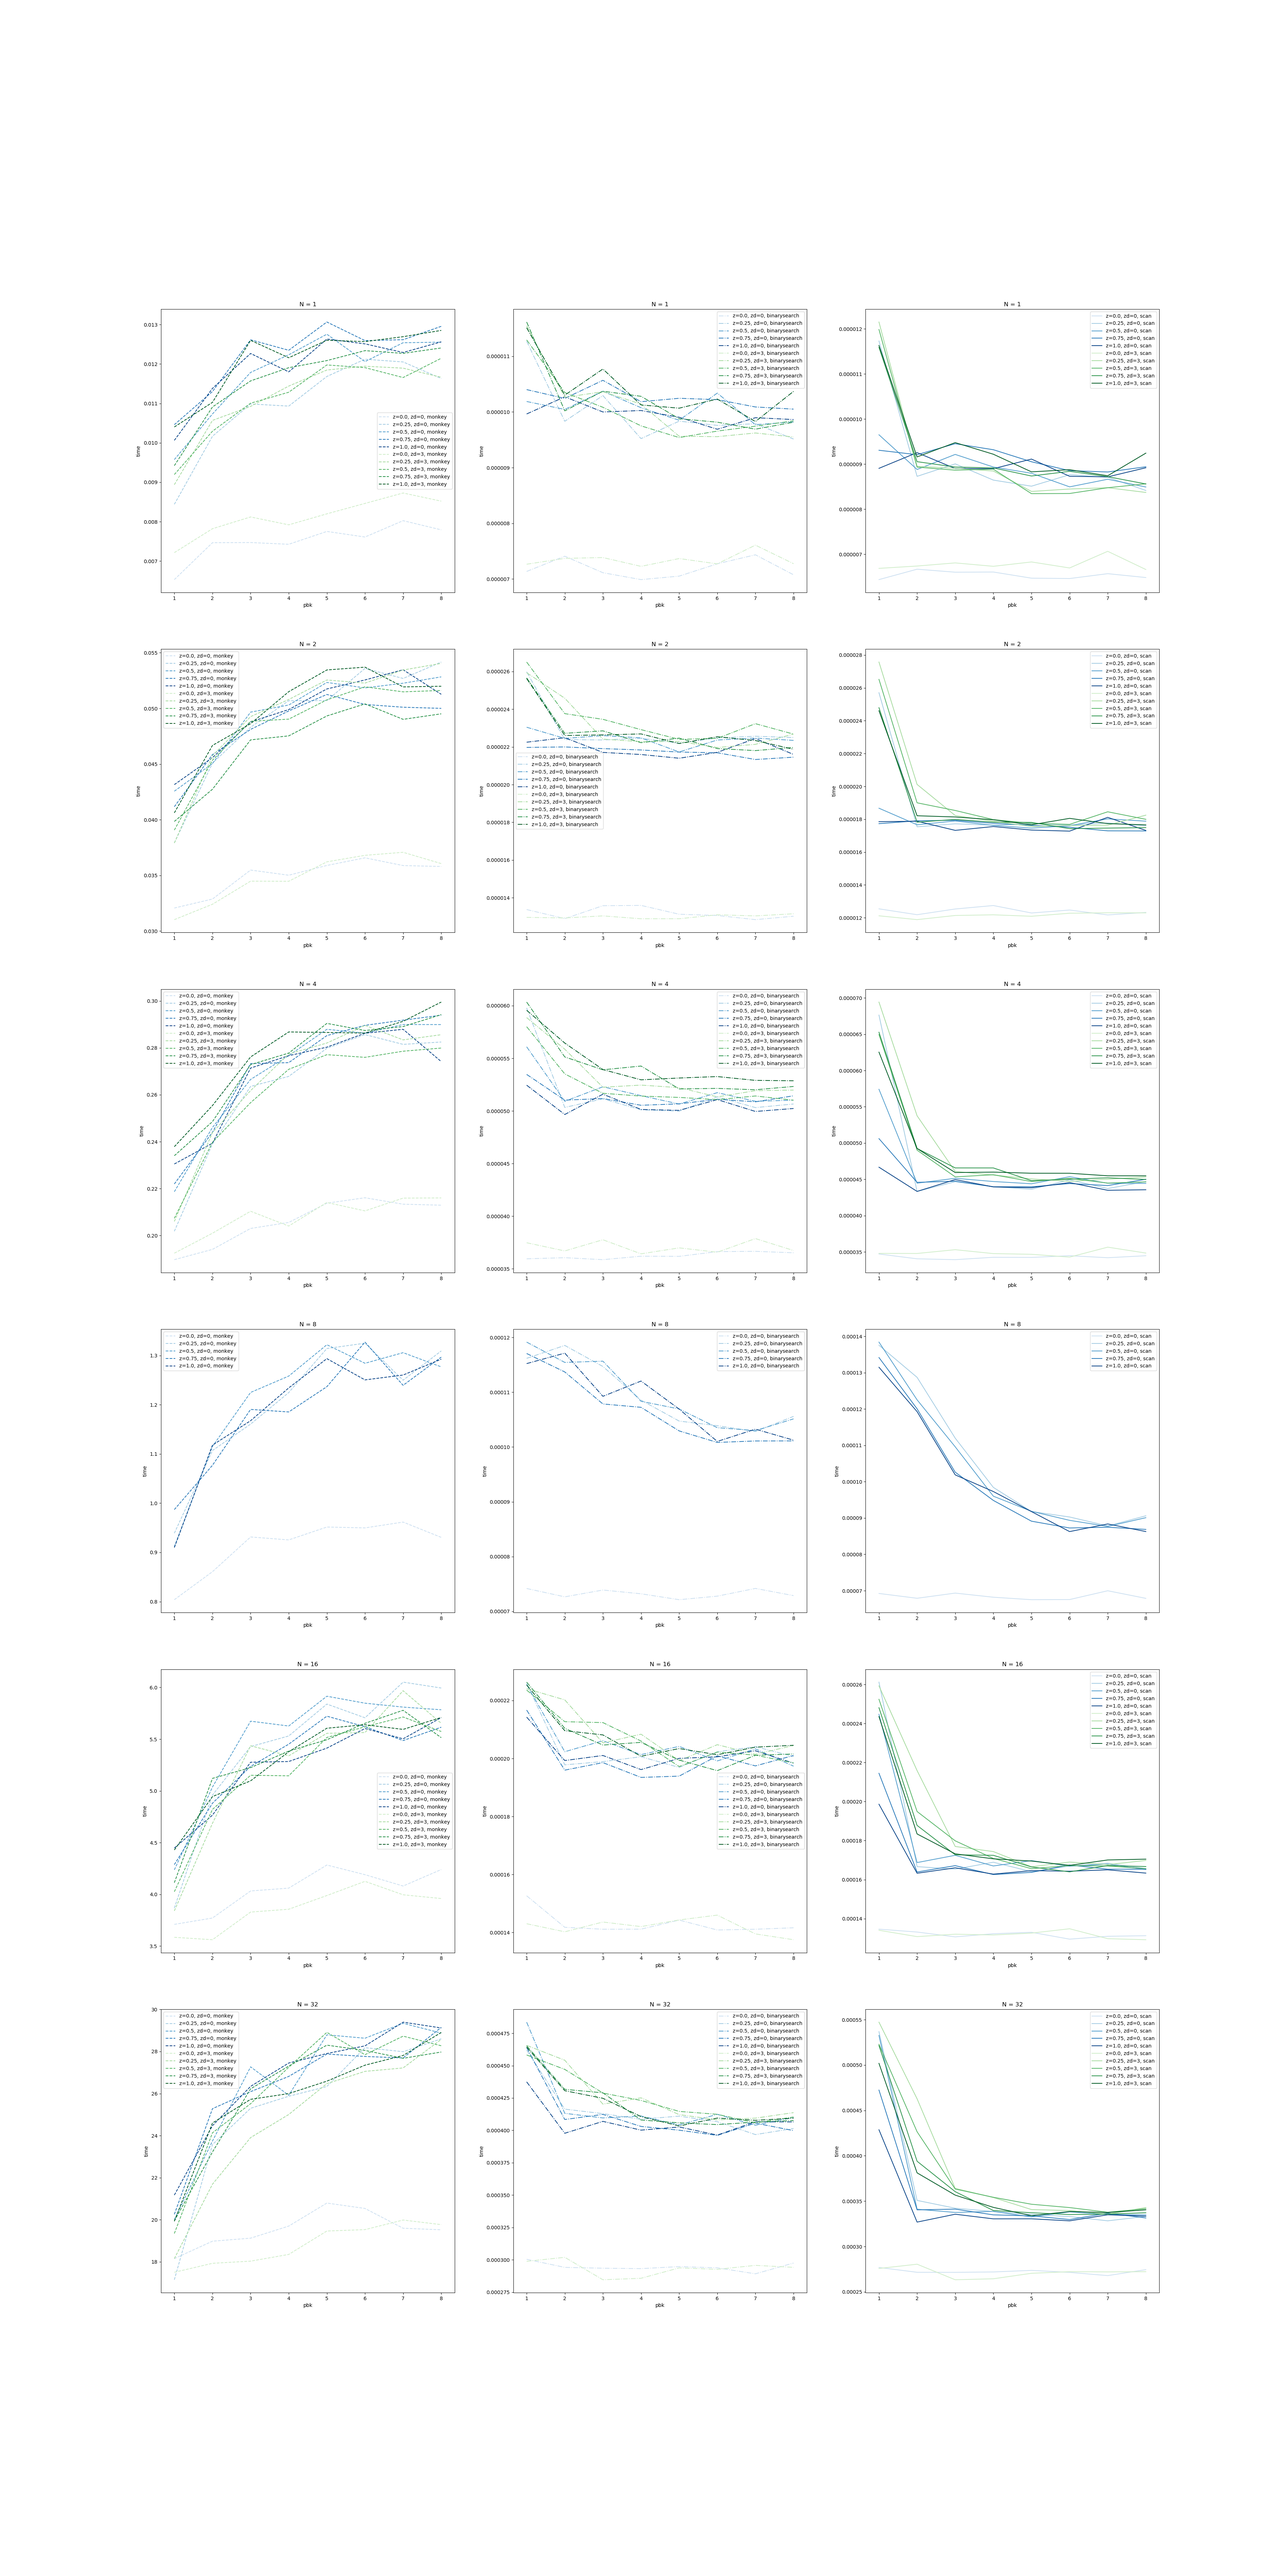
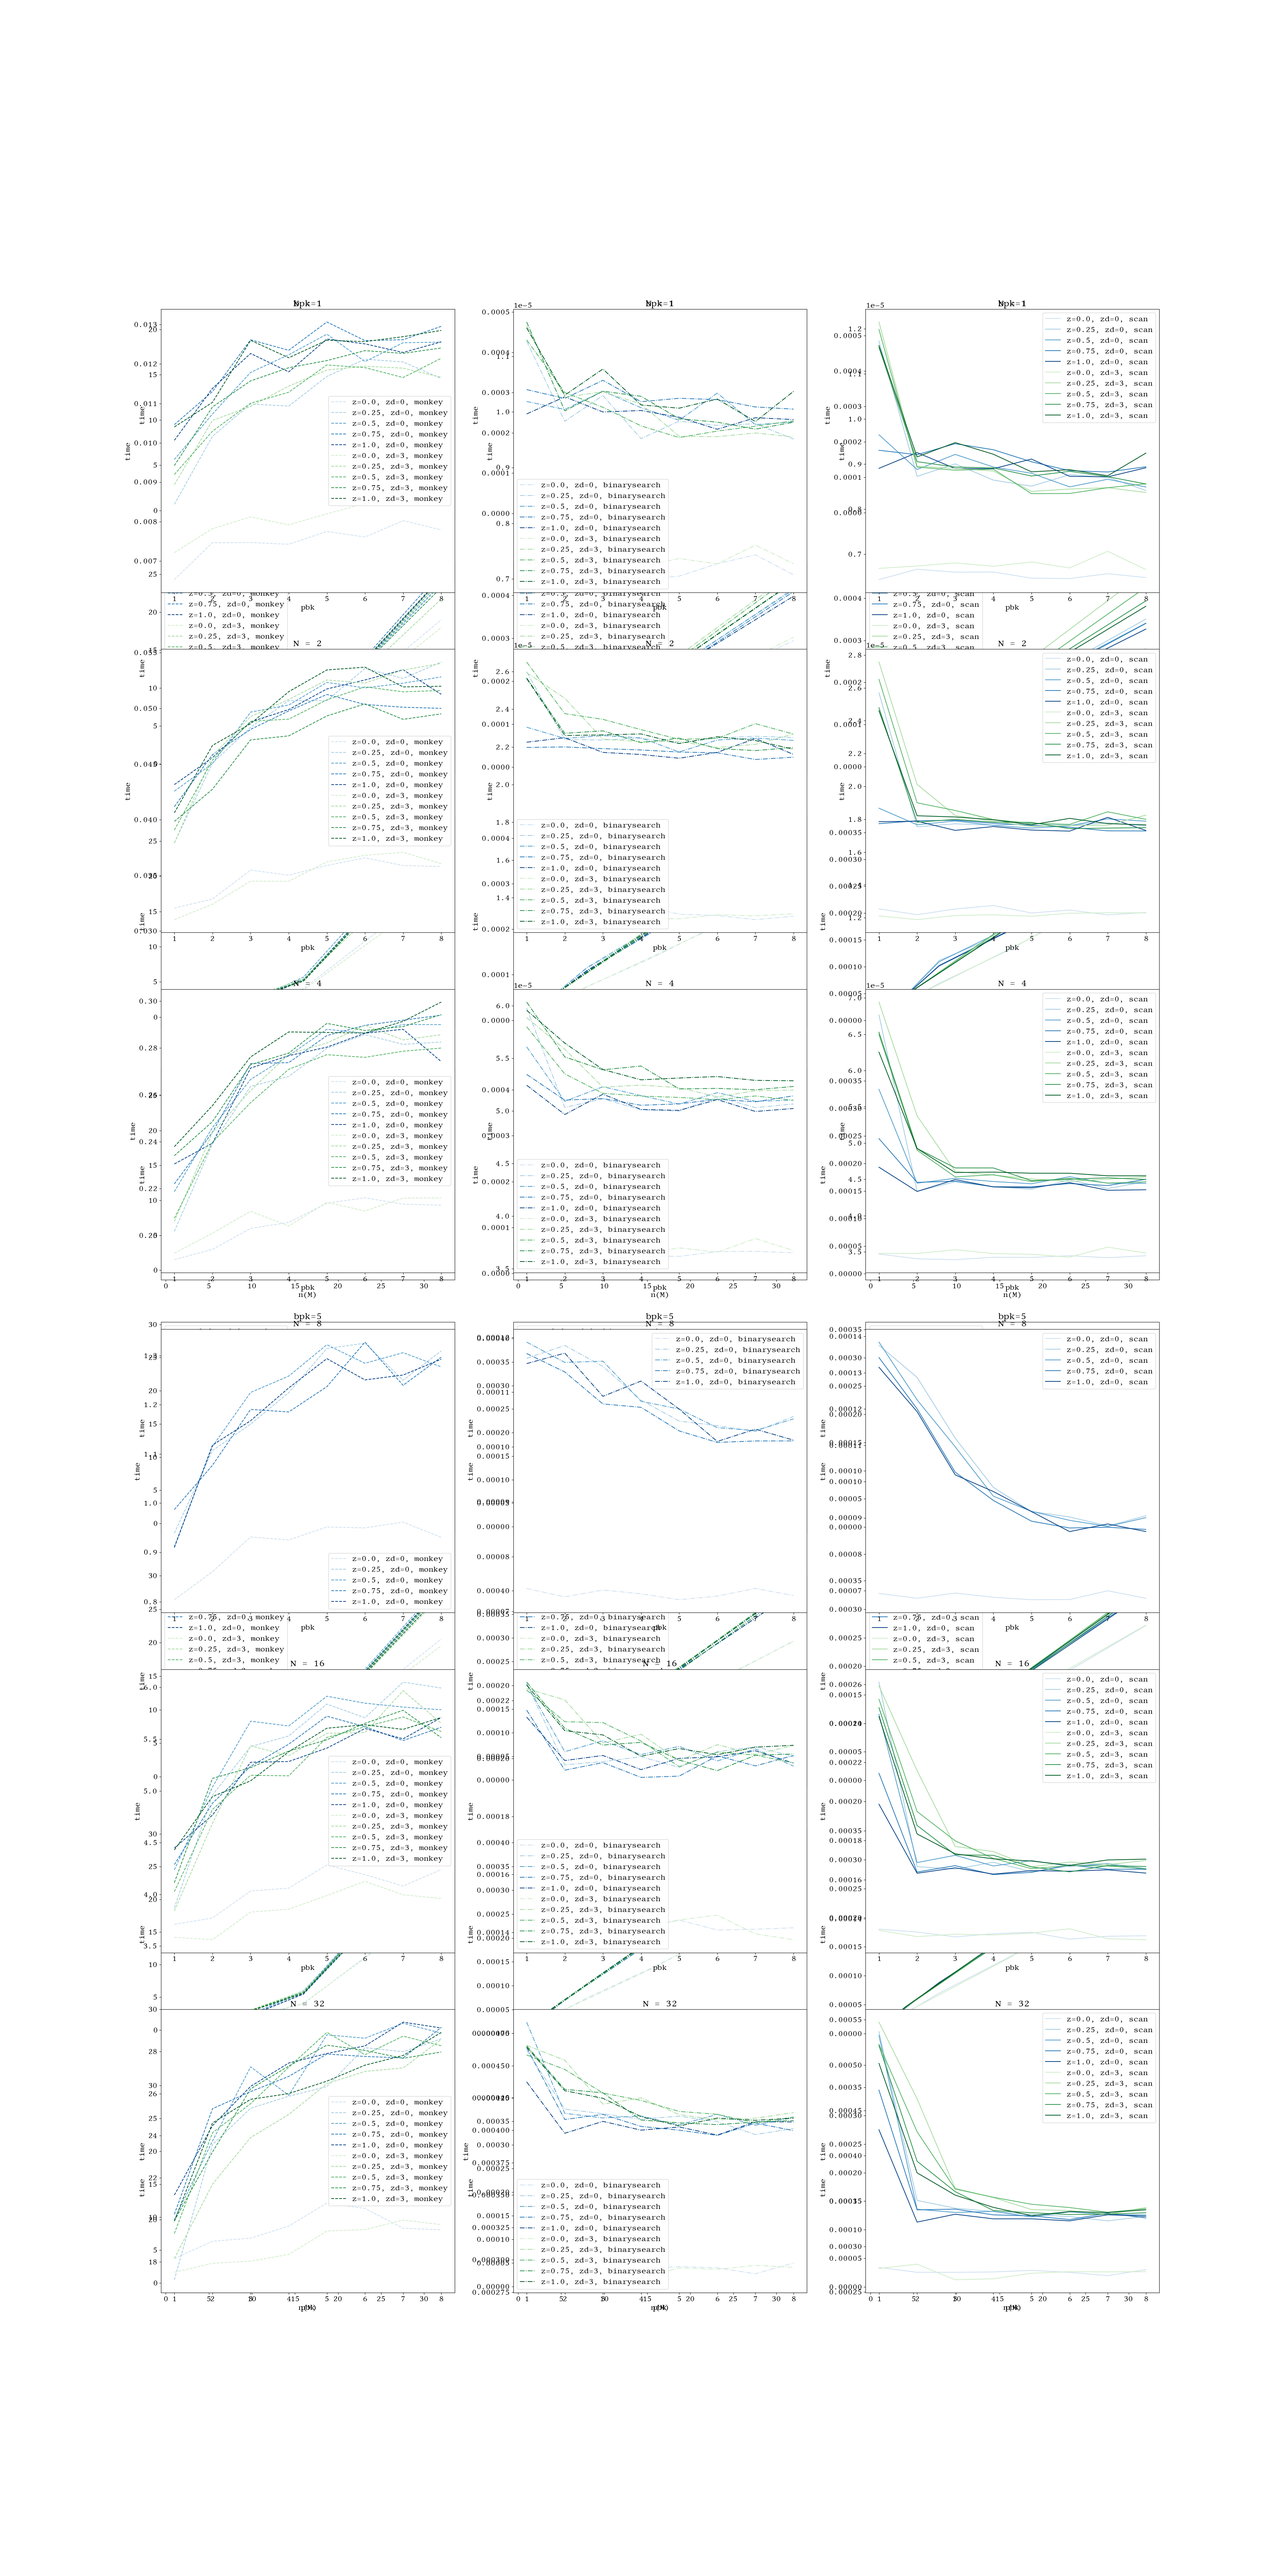
figure update

diff --git a/plot.py b/plot.py
@@ -5,6 +5,7 @@ import matplotlib as mpl
 from matplotlib import pyplot as plt
 
 # mpl.rcParams['text.usetex'] = True
+plt.rc('font',family='Linux Libertine Mono', size=15)
 
 root_dir = "./varyN_bpk6_E128_ED_Q4M"
 BPK = [1, 2, 3, 4, 5, 6, 7, 8]
@@ -61,7 +62,7 @@ def plot_for_linear_plot(bpk: int, zd = 0):
   # plt.figure(f'z = [0.0, 0.5, 1.0], {____uniform if zd==0 else ____zipf}, bpk = {bpk}', figsize=(12 * length, 9 * 1))
   ii = 0
   for z in allZ:
-    plt.figure(f'Z{z:.1f}_{____uniform if zd==0 else ____zipf}_bpk{bpk}', figsize = (12, 9))
+    plt.figure(f'Z{z:.1f}_{____uniform if zd==0 else ____zipf}_bpk{bpk}', figsize = (8, 6))
     ii += 1
     _df = df[df["bpk"] == bpk][df["ZD"] == zd][df["Z"] == z]
     for i in range(3):
@@ -72,16 +73,17 @@ def plot_for_linear_plot(bpk: int, zd = 0):
       y = []
       for n in Ns:
         if(len(_df[_df["N"] == n]) > 0):
-          _x = n;
+          _x = n * 1000000;
           _y = np.average(_df[_df["N"] == n][f't_{algo}'])
           x.append(_x)
           y.append(_y)
       # plt.subplot(1, length, ii)
-      plt.title(f"Z={z}")
+      plt.title(f"Z{z:.1f}_{____uniform if zd==0 else ____zipf}_bpk{bpk}")
       # plt.plot(x, y, linestyle = line, label = f"{name}")
       plt.plot(x, y, label = f"{name}")
+      plt.ticklabel_format(axis="x", style="sci", scilimits=(6,6))
       plt.yscale("log")
-      plt.xlabel("n(M)")
+      plt.xlabel("n")
       plt.ylabel("time")
       # plt.ylim(0)
     # for N, ____df in ___df.groupby(___df["N"]):
